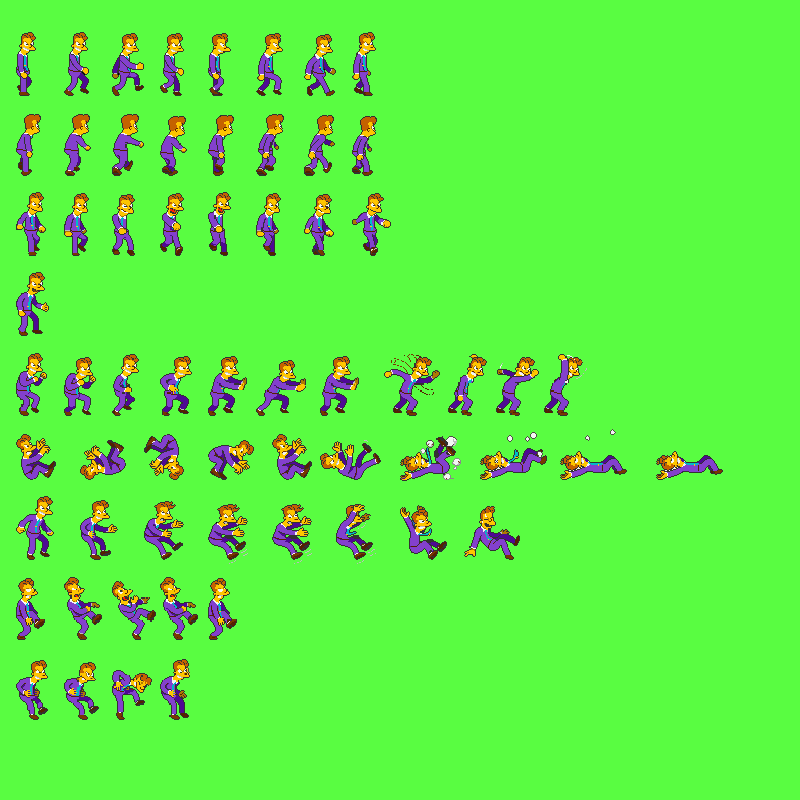
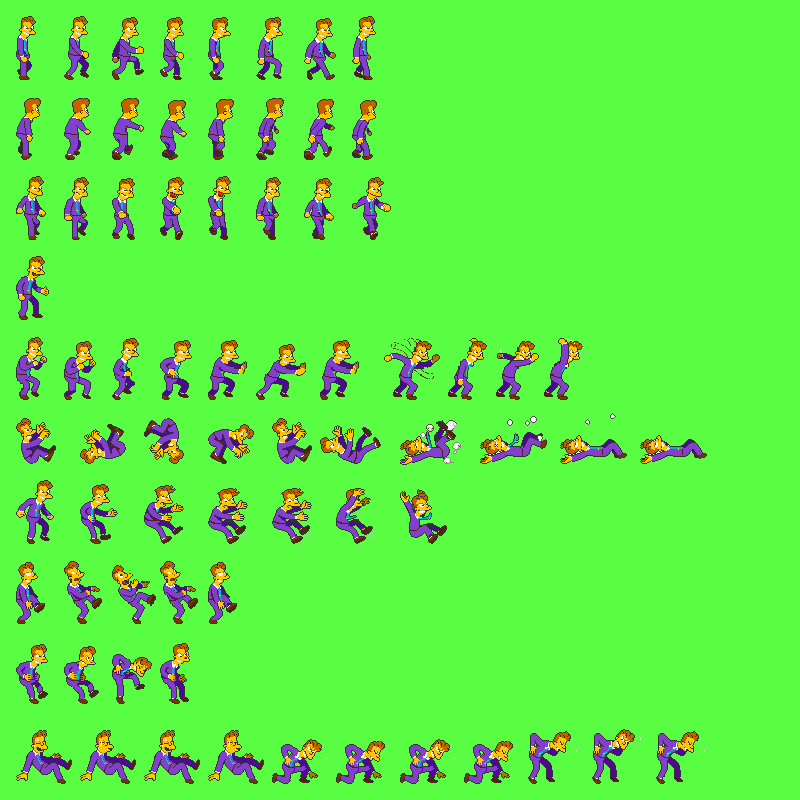
Update Royd spritesheet and sprite positions

Changed region(s): [[0.0, 0.0, 0.9062, 1.0]]

diff --git a/The Simpsons Arcade/Royd.cpp b/The Simpsons Arcade/Royd.cpp
@@ -19,45 +19,45 @@ bool Royd::Start()
 	life = 2;
 
 	SpriteAnimation idle;
-	idle.frames.push_back({ { 16, 272, 33, 64 }, iPoint(4, 64) });
+	idle.frames.push_back({ { 16, 256, 33, 64 }, iPoint(4, 64) });
 
 	AddAnimation("idle", idle);
 
 	SpriteAnimation walk;
-	walk.frames.push_back({ { 16, 32, 20, 64 }, iPoint(0, 64) });
-	walk.frames.push_back({ { 64, 32, 25, 64 }, iPoint(4, 64) });
-	walk.frames.push_back({ { 112, 33, 32, 63 }, iPoint(6, 63) });
-	walk.frames.push_back({ { 160, 33, 24, 63 }, iPoint(3, 63) });
-	walk.frames.push_back({ { 208, 33, 23, 63 }, iPoint(0, 63) });
-	walk.frames.push_back({ { 256, 33, 27, 63 }, iPoint(3, 63) });
-	walk.frames.push_back({ { 304, 34, 32, 62 }, iPoint(8, 62) });
-	walk.frames.push_back({ { 352, 32, 24, 64 }, iPoint(3, 64) });
+	walk.frames.push_back({ { 16, 16, 20, 64 }, iPoint(0, 64) });
+	walk.frames.push_back({ { 64, 16, 25, 64 }, iPoint(4, 64) });
+	walk.frames.push_back({ { 112, 17, 32, 63 }, iPoint(6, 63) });
+	walk.frames.push_back({ { 160, 17, 24, 63 }, iPoint(3, 63) });
+	walk.frames.push_back({ { 208, 17, 23, 63 }, iPoint(0, 63) });
+	walk.frames.push_back({ { 256, 17, 27, 63 }, iPoint(3, 63) });
+	walk.frames.push_back({ { 304, 18, 32, 62 }, iPoint(8, 62) });
+	walk.frames.push_back({ { 352, 16, 24, 64 }, iPoint(3, 64) });
 	walk.speed = 0.2f;
 
 	AddAnimation("walk", walk);
 
 	SpriteAnimation walk_up;
-	walk_up.frames.push_back({ { 16, 114, 25, 62 }, iPoint(0, 62) });
-	walk_up.frames.push_back({ { 64, 114, 27, 62 }, iPoint(0, 62) });
-	walk_up.frames.push_back({ { 112, 114, 32, 62 }, iPoint(1, 62) });
-	walk_up.frames.push_back({ { 160, 116, 27, 60 }, iPoint(0, 60) });
-	walk_up.frames.push_back({ { 208, 115, 26, 61 }, iPoint(0, 61) });
-	walk_up.frames.push_back({ { 256, 114, 28, 62 }, iPoint(2, 62) });
-	walk_up.frames.push_back({ { 304, 115, 31, 61 }, iPoint(5, 61) });
-	walk_up.frames.push_back({ { 352, 116, 25, 60 }, iPoint(0, 60) });
+	walk_up.frames.push_back({ { 16, 98, 25, 62 }, iPoint(0, 62) });
+	walk_up.frames.push_back({ { 64, 98, 27, 62 }, iPoint(0, 62) });
+	walk_up.frames.push_back({ { 112, 98, 32, 62 }, iPoint(1, 62) });
+	walk_up.frames.push_back({ { 160, 100, 27, 60 }, iPoint(0, 60) });
+	walk_up.frames.push_back({ { 208, 99, 26, 61 }, iPoint(0, 61) });
+	walk_up.frames.push_back({ { 256, 98, 28, 62 }, iPoint(2, 62) });
+	walk_up.frames.push_back({ { 304, 99, 31, 61 }, iPoint(5, 61) });
+	walk_up.frames.push_back({ { 352, 100, 25, 60 }, iPoint(0, 60) });
 	walk_up.speed = 0.2f;
 
 	AddAnimation("walk_up", walk_up);
 
 	SpriteAnimation walk_down;
-	walk_down.frames.push_back({ { 16, 192, 29, 64 }, iPoint(8, 64) });
-	walk_down.frames.push_back({ { 64, 193, 25, 63 }, iPoint(4, 63) });
-	walk_down.frames.push_back({ { 112, 194, 23, 62 }, iPoint(2, 61) });
-	walk_down.frames.push_back({ { 160, 193, 24, 63 }, iPoint(3, 63) });
-	walk_down.frames.push_back({ { 208, 192, 23, 64 }, iPoint(2, 64) });
-	walk_down.frames.push_back({ { 256, 193, 25, 63 }, iPoint(6, 63) });
-	walk_down.frames.push_back({ { 304, 194, 30, 62 }, iPoint(7, 62) });
-	walk_down.frames.push_back({ { 352, 193, 39, 63 }, iPoint(11, 63) });
+	walk_down.frames.push_back({ { 16, 176, 29, 64 }, iPoint(8, 64) });
+	walk_down.frames.push_back({ { 64, 177, 25, 63 }, iPoint(4, 63) });
+	walk_down.frames.push_back({ { 112, 178, 23, 62 }, iPoint(2, 61) });
+	walk_down.frames.push_back({ { 160, 177, 24, 63 }, iPoint(3, 63) });
+	walk_down.frames.push_back({ { 208, 176, 23, 64 }, iPoint(2, 64) });
+	walk_down.frames.push_back({ { 256, 177, 25, 63 }, iPoint(6, 63) });
+	walk_down.frames.push_back({ { 304, 178, 30, 62 }, iPoint(7, 62) });
+	walk_down.frames.push_back({ { 352, 177, 39, 63 }, iPoint(11, 63) });
 	walk_down.speed = 0.2f;
 
 	AddAnimation("walk_down", walk_down);
